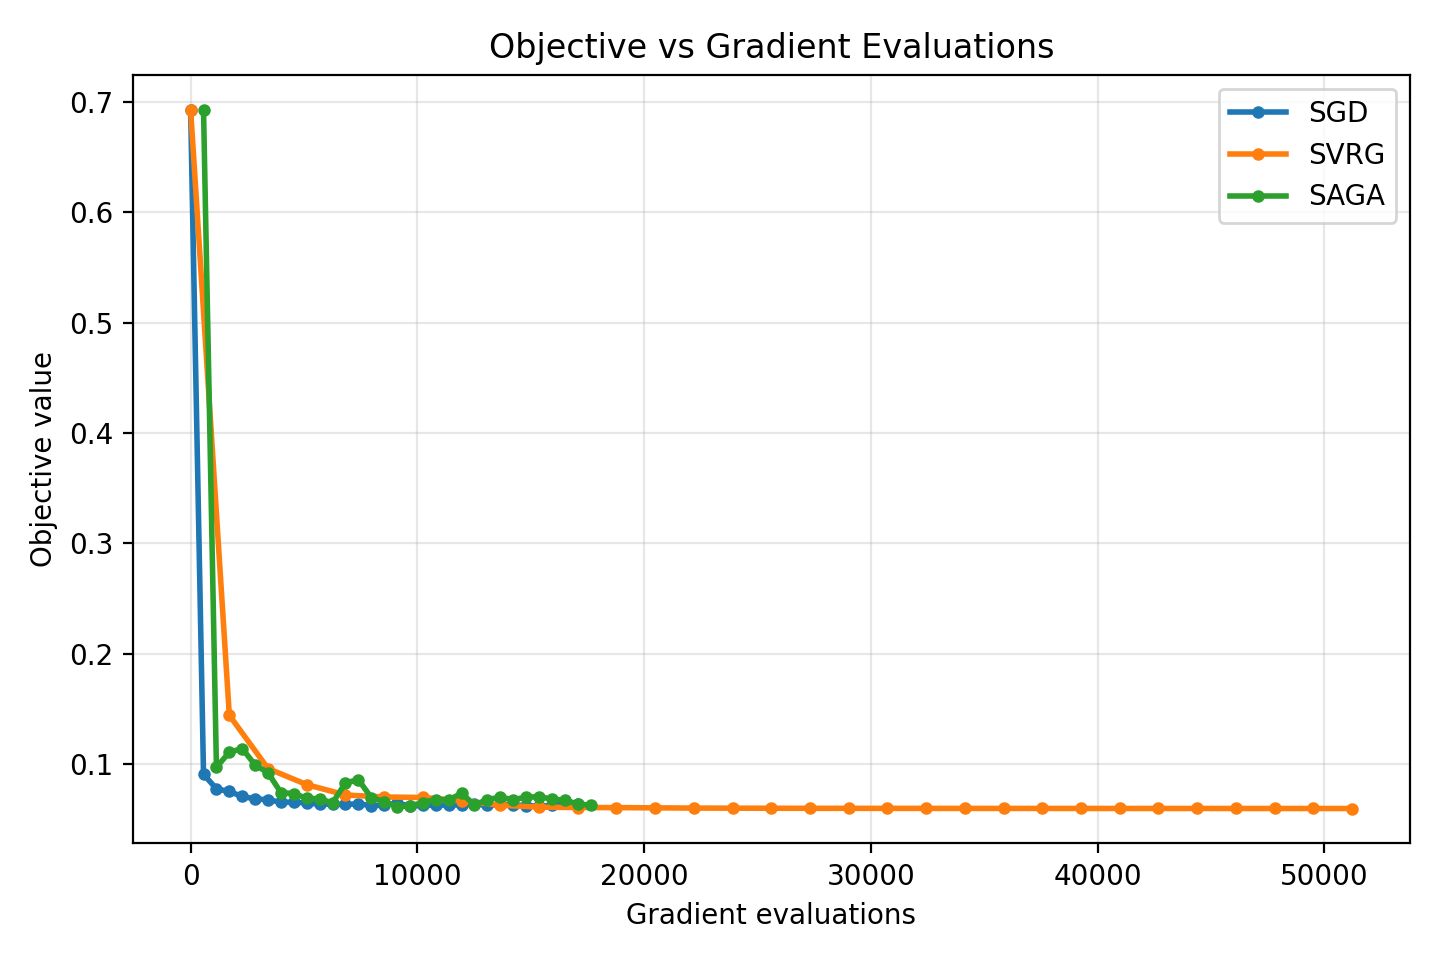
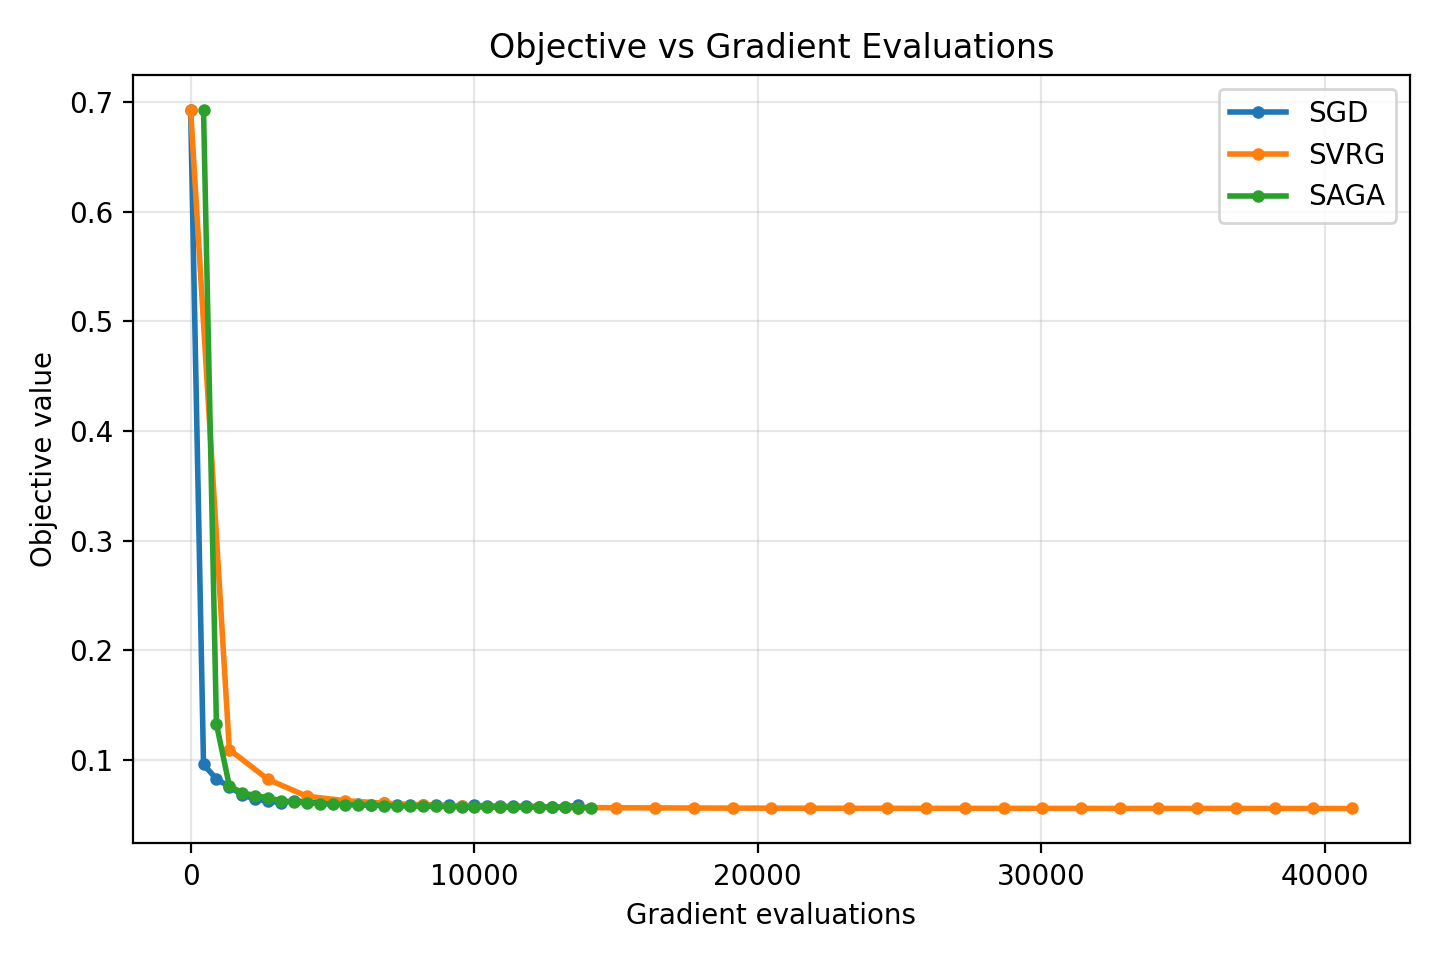
Added validation loss evals and convergece analysis on best hyperparameters for SAGA

diff --git a/optimizer_common.py b/optimizer_common.py
@@ -43,10 +43,15 @@ class OptimizationResult:
     epochs: int
     seed: int
     metadata: dict[str, float | int | str] = field(default_factory=dict)
+    val_losses: np.ndarray = field(default_factory=lambda: np.array([], dtype=float))
 
     @property
     def final_loss(self) -> float:
         return float(self.losses[-1])
+
+    @property
+    def final_val_loss(self) -> float | None:
+        return float(self.val_losses[-1]) if len(self.val_losses) > 0 else None
 
     @property
     def total_gradient_evaluations(self) -> int:
@@ -60,15 +65,23 @@ class OptimizationResult:
 class CheckpointLogger:
     """Collect loss/runtime/gradient-evaluation checkpoints."""
 
-    def __init__(self, objective: LogisticRegressionObjective) -> None:
+    def __init__(
+        self,
+        objective: LogisticRegressionObjective,
+        val_objective: LogisticRegressionObjective | None = None,
+    ) -> None:
         self.objective = objective
+        self.val_objective = val_objective
         self.start_time = time.perf_counter()
         self.losses: list[float] = []
+        self.val_losses: list[float] = []
         self.gradient_evaluations: list[int] = []
         self.runtimes: list[float] = []
 
     def record(self, theta: np.ndarray, gradient_evaluations: int) -> None:
         self.losses.append(self.objective.objective(theta))
+        if self.val_objective is not None:
+            self.val_losses.append(self.val_objective.objective(theta))
         self.gradient_evaluations.append(gradient_evaluations)
         self.runtimes.append(time.perf_counter() - self.start_time)
 
@@ -91,6 +104,7 @@ class CheckpointLogger:
             epochs=epochs,
             seed=seed,
             metadata={} if metadata is None else metadata,
+            val_losses=np.asarray(self.val_losses, dtype=float),
         )
 
 
@@ -240,10 +254,90 @@ def plot_sweep_final_losses(
     plt.close(fig)
 
 
+def estimate_optimal_loss(objective: LogisticRegressionObjective) -> float:
+    """Run L-BFGS-B to high precision to estimate F*."""
+
+    from scipy.optimize import minimize
+
+    result = minimize(
+        fun=objective.objective,
+        x0=objective.initial_theta(),
+        jac=objective.full_gradient,
+        method="L-BFGS-B",
+        options={"maxiter": 10000, "ftol": 1e-15, "gtol": 1e-12},
+    )
+    return float(result.fun)
+
+
+def plot_convergence_analysis(
+    output_path: Path,
+    results: dict[str, OptimizationResult],
+    f_star: float,
+) -> None:
+    """Semilogy plot of F(θ) − F* vs gradient evaluations.
+
+    A straight line on this plot confirms the linear convergence rate
+    predicted by theory for strongly convex objectives.  SGD with constant
+    step size will level off (noise floor), while SVRG and SAGA should
+    continue falling linearly.
+    """
+
+    output_path.parent.mkdir(parents=True, exist_ok=True)
+    fig, ax = plt.subplots(figsize=(7.2, 4.8))
+
+    for method, result in results.items():
+        excess = result.losses - f_star
+        valid = excess > 0
+        if not valid.any():
+            continue
+        ax.semilogy(
+            result.gradient_evaluations[valid],
+            excess[valid],
+            marker="o",
+            linewidth=2.0,
+            markersize=3.5,
+            label=method,
+        )
+
+    ax.set_xlabel("Gradient evaluations")
+    ax.set_ylabel("F(θ) − F*  (log scale)")
+    ax.set_title("Convergence Analysis")
+    ax.grid(True, alpha=0.3)
+    ax.legend()
+    fig.tight_layout()
+    fig.savefig(output_path, dpi=200)
+    plt.close(fig)
+
+
+def plot_val_loss_vs_gradient_evaluations(
+    output_path: Path,
+    results: dict[str, OptimizationResult],
+) -> None:
+    """Save validation objective value vs gradient evaluations."""
+
+    results_with_val = {m: r for m, r in results.items() if r.final_val_loss is not None}
+    if not results_with_val:
+        return
+    _plot_metric(
+        output_path=output_path,
+        results=results_with_val,
+        x_attr="gradient_evaluations",
+        x_label="Gradient evaluations",
+        title="Validation Loss vs Gradient Evaluations",
+        y_attr="val_losses",
+        y_label="Validation loss",
+    )
+
+
 def print_summary(results: dict[str, OptimizationResult]) -> None:
     for method, result in results.items():
+        val_str = (
+            f", val loss={result.final_val_loss:.8f}"
+            if result.final_val_loss is not None
+            else ""
+        )
         print(
-            f"{method}: final loss={result.final_loss:.8f}, "
+            f"{method}: final loss={result.final_loss:.8f}{val_str}, "
             f"grad evals={result.total_gradient_evaluations}, "
             f"runtime={result.total_runtime:.6f}s, "
             f"step size={result.step_size:g}"
@@ -263,6 +357,8 @@ def _plot_metric(
     x_attr: str,
     x_label: str,
     title: str,
+    y_attr: str = "losses",
+    y_label: str = "Objective value",
 ) -> None:
     output_path.parent.mkdir(parents=True, exist_ok=True)
 
@@ -270,7 +366,7 @@ def _plot_metric(
     for method, result in results.items():
         ax.plot(
             getattr(result, x_attr),
-            result.losses,
+            getattr(result, y_attr),
             marker="o",
             linewidth=2.0,
             markersize=3.5,
@@ -278,7 +374,7 @@ def _plot_metric(
         )
 
     ax.set_xlabel(x_label)
-    ax.set_ylabel("Objective value")
+    ax.set_ylabel(y_label)
     ax.set_title(title)
     ax.grid(True, alpha=0.3)
     ax.legend()

diff --git a/compare_sgd_svrg.py b/compare_sgd_svrg.py
@@ -9,13 +9,21 @@ from pathlib import Path
 import numpy as np
 
 try:
-    from data_objective import DEFAULT_L2_REG, make_objective
+    from data_objective import (
+        DEFAULT_L2_REG,
+        LogisticRegressionObjective,
+        load_breast_cancer_data_split,
+        make_objective,
+    )
     from optimizer_common import (
         OptimizationResult,
+        estimate_optimal_loss,
         parse_step_sizes,
+        plot_convergence_analysis,
         plot_loss_vs_gradient_evaluations,
         plot_loss_vs_runtime,
         plot_sweep_final_losses,
+        plot_val_loss_vs_gradient_evaluations,
         print_summary,
         write_sweep_summary_csv,
         write_trace_csv,
@@ -24,13 +32,21 @@ try:
     from svrg import SVRGResult, run_svrg
     from saga import SAGAResult, run_saga
 except ModuleNotFoundError:
-    from .data_objective import DEFAULT_L2_REG, make_objective
+    from .data_objective import (
+        DEFAULT_L2_REG,
+        LogisticRegressionObjective,
+        load_breast_cancer_data_split,
+        make_objective,
+    )
     from .optimizer_common import (
         OptimizationResult,
+        estimate_optimal_loss,
         parse_step_sizes,
+        plot_convergence_analysis,
         plot_loss_vs_gradient_evaluations,
         plot_loss_vs_runtime,
         plot_sweep_final_losses,
+        plot_val_loss_vs_gradient_evaluations,
         print_summary,
         write_sweep_summary_csv,
         write_trace_csv,
@@ -42,7 +58,7 @@ except ModuleNotFoundError:
 
 LOCKED_SGD_STEP_SIZE = 0.03
 LOCKED_SVRG_STEP_SIZE = 0.1
-LOCKED_SAGA_STEP_SIZE = 0.1
+LOCKED_SAGA_STEP_SIZE = 0.03
 DEFAULT_SEEDS = [0, 1, 2]
 
 
@@ -57,30 +73,39 @@ def run_comparison(
 ) -> tuple[SGDResult, SVRGResult, SAGAResult]:
     """Run SGD, SVRG, and SAGA from the same initial theta and save logs/plots."""
 
-    objective = make_objective(l2_reg=l2_reg)
-    theta0 = objective.initial_theta()
+    train_data, val_data = load_breast_cancer_data_split(seed=seed)
+    train_objective = LogisticRegressionObjective(data=train_data, l2_reg=l2_reg)
+    val_objective = LogisticRegressionObjective(data=val_data, l2_reg=l2_reg)
+    theta0 = train_objective.initial_theta()
+
+    print("Estimating F* via L-BFGS-B...", flush=True)
+    f_star = estimate_optimal_loss(train_objective)
+    print(f"F* ≈ {f_star:.10f}")
 
     sgd_result = run_sgd(
-        objective=objective,
+        objective=train_objective,
         theta0=theta0,
         step_size=sgd_step_size,
         epochs=epochs,
         seed=seed,
+        val_objective=val_objective,
     )
     svrg_result = run_svrg(
-        objective=objective,
+        objective=train_objective,
         theta0=theta0,
         step_size=svrg_step_size,
         epochs=epochs,
-        inner_loop_steps=objective.n_samples,
+        inner_loop_steps=train_objective.n_samples,
         seed=seed,
+        val_objective=val_objective,
     )
     saga_result = run_saga(
-        objective=objective,
+        objective=train_objective,
         theta0=theta0,
         step_size=saga_step_size,
         epochs=epochs,
         seed=seed,
+        val_objective=val_objective,
     )
 
     results: dict[str, OptimizationResult] = {
@@ -88,16 +113,25 @@ def run_comparison(
         "SVRG": svrg_result,
         "SAGA": saga_result,
     }
+    output_dir.mkdir(parents=True, exist_ok=True)
     write_trace_csv(output_dir / "sgd_vs_svrg_trace.csv", results)
     plot_loss_vs_gradient_evaluations(
         output_dir / "sgd_vs_svrg_loss_vs_grad_evals.png", results
     )
     plot_loss_vs_runtime(output_dir / "sgd_vs_svrg_loss_vs_runtime.png", results)
+    plot_val_loss_vs_gradient_evaluations(
+        output_dir / "val_loss_vs_grad_evals.png", results
+    )
+    plot_convergence_analysis(
+        output_dir / "convergence_analysis.png", results, f_star=f_star
+    )
     print("SGD vs SVRG vs SAGA comparison")
     print_summary(results)
+    print(f"train/val split: {train_objective.n_samples} / {val_objective.n_samples}")
     print(f"trace: {output_dir / 'sgd_vs_svrg_trace.csv'}")
-    print(f"plot: {output_dir / 'sgd_vs_svrg_loss_vs_grad_evals.png'}")
-    print(f"runtime plot: {output_dir / 'sgd_vs_svrg_loss_vs_runtime.png'}")
+    print(f"train loss plot: {output_dir / 'sgd_vs_svrg_loss_vs_grad_evals.png'}")
+    print(f"val loss plot: {output_dir / 'val_loss_vs_grad_evals.png'}")
+    print(f"convergence plot: {output_dir / 'convergence_analysis.png'}")
 
     return sgd_result, svrg_result, saga_result
 

diff --git a/data_objective.py b/data_objective.py
@@ -12,6 +12,7 @@ from dataclasses import dataclass
 
 import numpy as np
 from sklearn.datasets import load_breast_cancer
+from sklearn.model_selection import train_test_split
 from sklearn.preprocessing import StandardScaler
 
 
@@ -156,6 +157,37 @@ def load_breast_cancer_data() -> BinaryClassificationData:
         feature_names=tuple(raw.feature_names),
         target_names=tuple(raw.target_names),
     )
+
+
+def load_breast_cancer_data_split(
+    test_size: float = 0.2,
+    seed: int = 0,
+) -> tuple[BinaryClassificationData, BinaryClassificationData]:
+    """Return stratified train/test splits with scaler fit on train only."""
+
+    raw = load_breast_cancer()
+    X_raw = raw.data.astype(float)
+    y = np.where(raw.target == 1, 1.0, -1.0)
+
+    X_train_raw, X_test_raw, y_train, y_test = train_test_split(
+        X_raw, y, test_size=test_size, random_state=seed, stratify=raw.target
+    )
+
+    scaler = StandardScaler()
+    X_train = scaler.fit_transform(X_train_raw)
+    X_test = scaler.transform(X_test_raw)
+
+    feature_names = tuple(raw.feature_names)
+    target_names = tuple(raw.target_names)
+    train_data = BinaryClassificationData(
+        X=X_train, y=y_train,
+        feature_names=feature_names, target_names=target_names,
+    )
+    val_data = BinaryClassificationData(
+        X=X_test, y=y_test,
+        feature_names=feature_names, target_names=target_names,
+    )
+    return train_data, val_data
 
 
 def make_objective(l2_reg: float = DEFAULT_L2_REG) -> LogisticRegressionObjective:

diff --git a/svrg.py b/svrg.py
@@ -42,6 +42,7 @@ def run_svrg(
     inner_loop_steps: int | None = None,
     seed: int = 0,
     record_every_steps: int | None = None,
+    val_objective: LogisticRegressionObjective | None = None,
 ) -> SVRGResult:
     """Run SVRG with snapshot frequency approximately one epoch.
 
@@ -83,7 +84,7 @@ def run_svrg(
     rng = np.random.default_rng(seed)
     total_steps = epochs * inner_loop_steps
 
-    logger = CheckpointLogger(objective)
+    logger = CheckpointLogger(objective, val_objective=val_objective)
     logger.record(theta=theta, gradient_evaluations=0)
 
     grad_evals = 0

diff --git a/sgd.py b/sgd.py
@@ -36,6 +36,7 @@ def run_sgd(
     epochs: int = 30,
     seed: int = 0,
     record_every_steps: int | None = None,
+    val_objective: LogisticRegressionObjective | None = None,
 ) -> SGDResult:
     """Run SGD with one random sample per update.
 
@@ -70,7 +71,7 @@ def run_sgd(
     rng = np.random.default_rng(seed)
     total_steps = epochs * objective.n_samples
 
-    logger = CheckpointLogger(objective)
+    logger = CheckpointLogger(objective, val_objective=val_objective)
     logger.record(theta=theta, gradient_evaluations=0)
 
     grad_evals = 0

diff --git a/saga.py b/saga.py
@@ -41,6 +41,7 @@ def run_saga(
     epochs: int = 30,
     seed: int = 0,
     record_every_steps: int | None = None,
+    val_objective: LogisticRegressionObjective | None = None,
 ) -> SAGAResult:
     """Run SAGA from a given (or default zero) starting point.
 
@@ -90,7 +91,7 @@ def run_saga(
     rng = np.random.default_rng(seed)
     total_steps = epochs * n
 
-    logger = CheckpointLogger(objective)
+    logger = CheckpointLogger(objective, val_objective=val_objective)
     logger.record(theta=theta, gradient_evaluations=n)
 
     grad_evals = n
